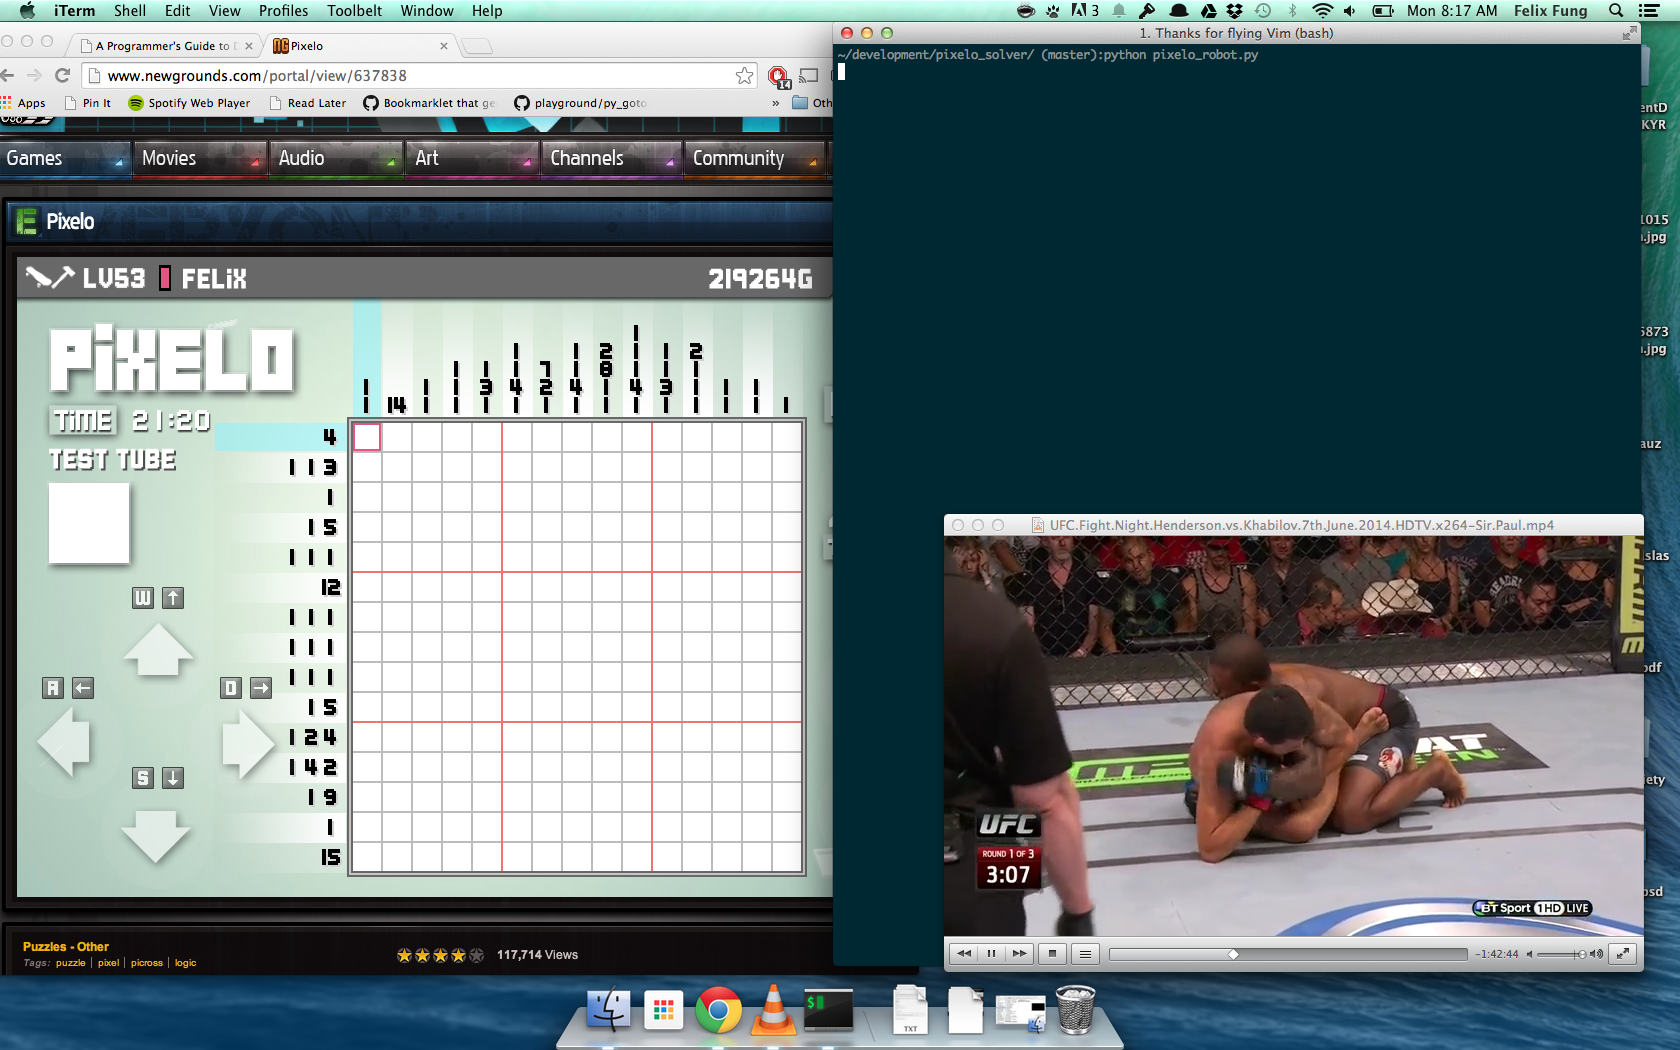
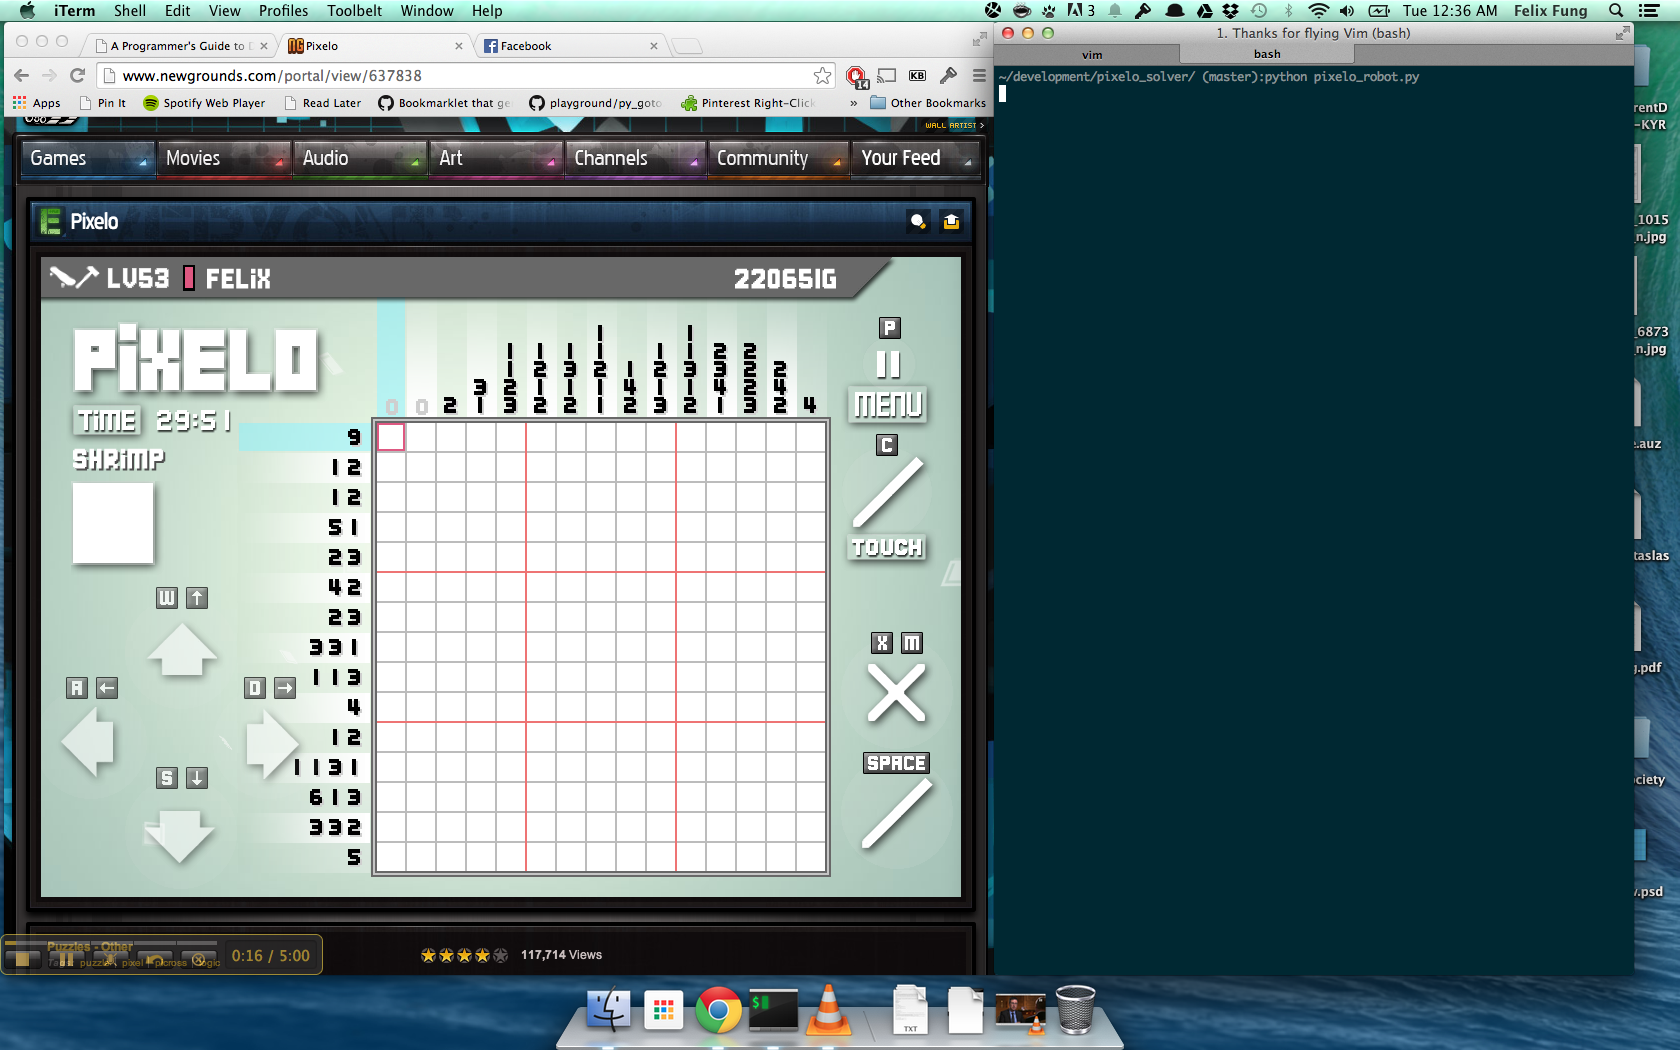
Putting it all together

diff --git a/pixelo_robot.py b/pixelo_robot.py
@@ -1,6 +1,8 @@
 import os
-import tempfile
 import pixelo_vision
+import subprocess
+import tempfile
+import time
 
 from pymouse import PyMouse
 from pykeyboard import PyKeyboard
@@ -8,9 +10,51 @@ from pykeyboard import PyKeyboard
 from PIL import Image
 from faster_image import FasterImage
 
-if __name__ == "__main__":
-  m = PyMouse()
+CLUE_TMPFILE = "tmp/clues.non"
+
+def format_clues(clues):
+  lines = []
+
+  width = len(clues["columns"])
+  height = len(clues["rows"])
+
+  lines.append("width %d" % (width))
+  lines.append("height %d" % (height))
+
+  lines.append("rows")
+  for row in clues["rows"]:
+    lines.append(",".join([ str(d) for d in row ]))
+
+  lines.append("columns")
+  for column in clues["columns"]:
+    lines.append(",".join([ str(d) for d in column ]))
+
+  return "\n".join(lines)
+
+def parse_pbnsolution(solution):
+  lines = solution.split("\n")
+  lines = lines[1:-1] # First line says "UNIQUE BLAH". Last line is blank
+  return lines
+
+def play_solution(solution):
   k = PyKeyboard()
+
+  for row in solution:
+    for c in row:
+      if c == 'X':
+        k.tap_key("space")
+      elif c == '.':
+        pass
+      else:
+        raise Exception
+
+      k.tap_key("rightarrow")
+
+    k.tap_key("downarrow")
+    for _ in range(0, len(row)):
+      k.tap_key("leftarrow")
+
+if __name__ == "__main__":
 
   #f = tempfile.NamedTemporaryFile() # TODO: File not being created
   #os.system("screencapture %s" % (f.name))
@@ -18,8 +62,25 @@ if __name__ == "__main__":
   screenfile = "tmp/screen.png"
   os.system("screencapture %s" % (screenfile))
 
+  print "screen captured..."
+
   screen = FasterImage(Image.open(screenfile).convert("RGBA"))
   clues = pixelo_vision.do_vision(screen)
-  print clues
 
-  #k.type_string("Hello world")
+  print "vision completed..."
+
+  formatted_clues = format_clues(clues)
+  with open(CLUE_TMPFILE, "w") as f:
+    f.write(formatted_clues)
+
+  # TODO: ./pbnsolve is not very robust
+  pbnsolver_output = subprocess.check_output(["./pbnsolve", CLUE_TMPFILE])
+  print pbnsolver_output
+
+  pbnsolution = parse_pbnsolution(pbnsolver_output)
+
+  print "problem solved..."
+
+  play_solution(pbnsolution)
+
+  print "complete!"
